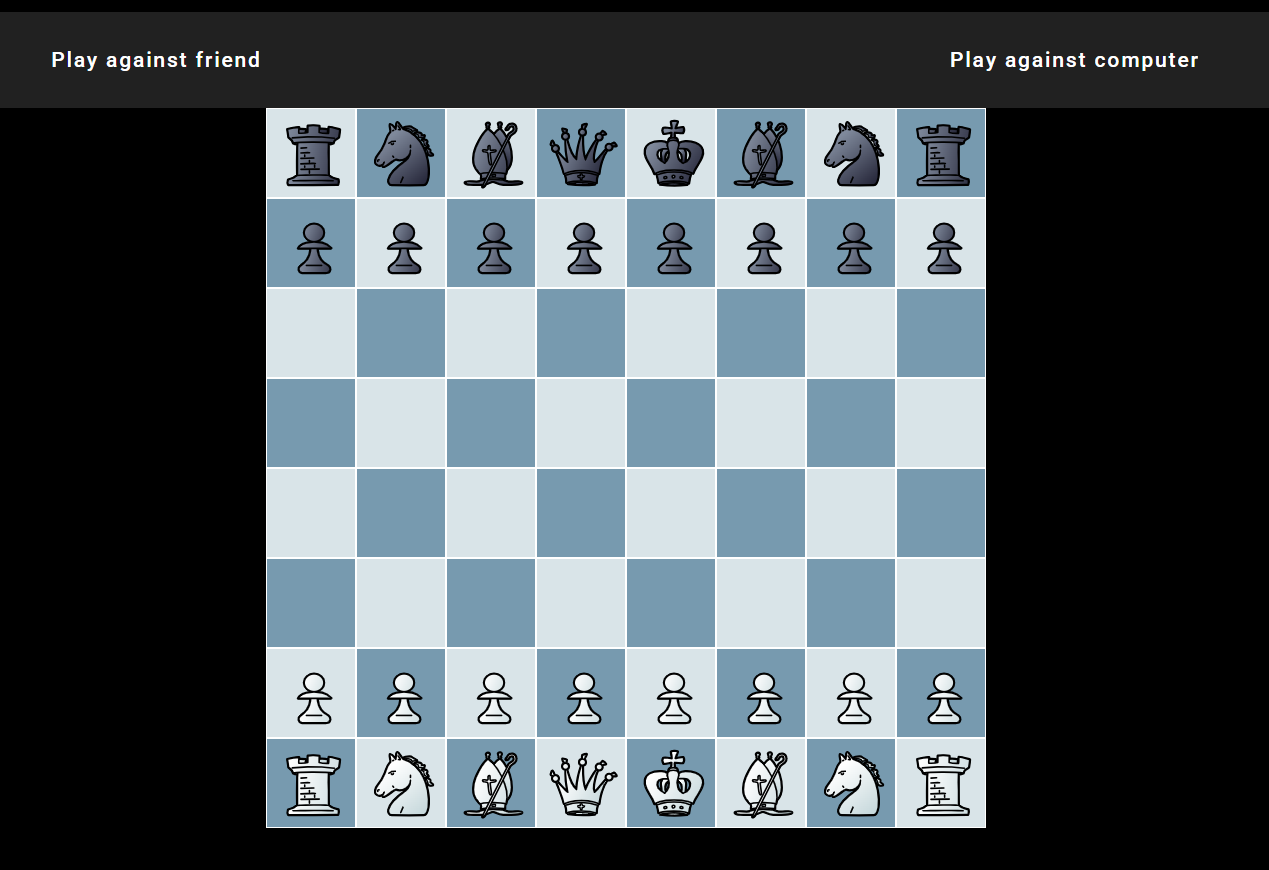
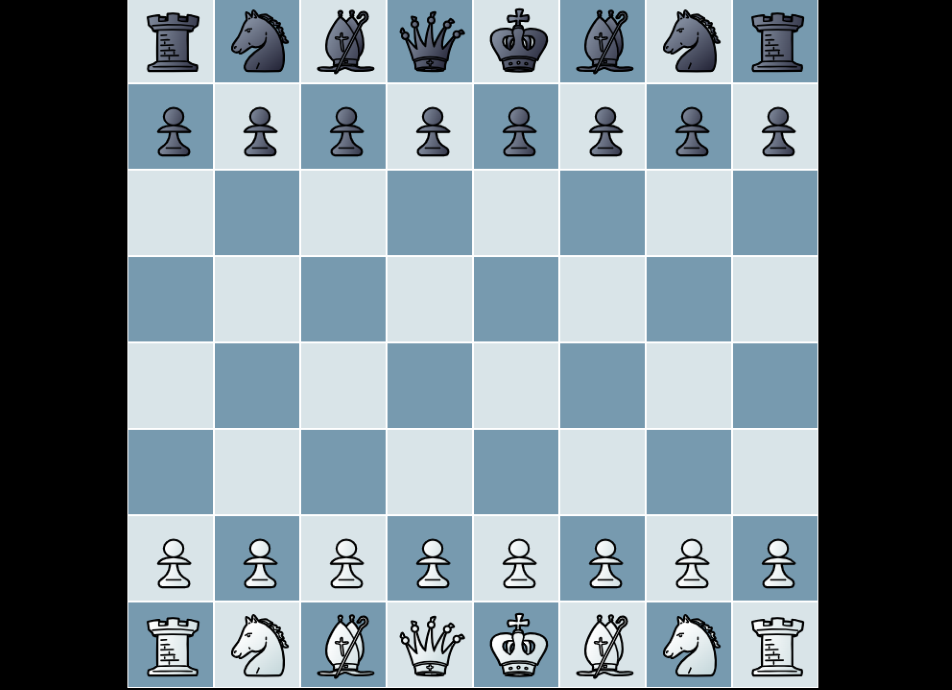
Project Section

diff --git a/src/constants/index.js b/src/constants/index.js
@@ -10,19 +10,25 @@ export const myProjects = [
       "Authentication-ready (Clerk integration)",
       "Fast, responsive, and mobile-friendly UI",
     ],
-    href: "",
+    href: "https://quickcart.greatstack.in/",
+    source: "https://github.com/BradleyXiX/eCommerce-website",
     logo: "",
     image: "/assets/projects/E-commerce 1.png",
     tags: [
       {
         id: 1,
-        name: "React",
-        path: "/assets/logos/react.svg",
+        name: "Next JS",
+        path: "/assets/logos/nextjs-icon.svg",
       },
       {
         id: 2,
         name: "TailwindCSS",
         path: "/assets/logos/tailwindcss.svg",
+      },
+      {
+        id: 3,
+        name: "JavaScript",
+        path: "/assets/logos/javascript.svg",
       },
     ],
   },
@@ -37,14 +43,15 @@ export const myProjects = [
       "Admin dashboard for managing shows and bookings",
       "Responsive UI built with React, Tailwind CSS, and Vite",
     ],
-    href: "",
+    href: "https://quickshow.vercel.app",
+    source: "https://github.com/BradleyXiX/Showtime",
     logo: "",
     image: "/assets/projects/Showtime.png",
     tags: [
       {
         id: 1,
-        name: "Auth0",
-        path: "/assets/logos/auth0.svg",
+        name: "MongoDB",
+        path: "/assets/logos/mongodb-icon.svg",
       },
       {
         id: 2,
@@ -53,13 +60,18 @@ export const myProjects = [
       },
       {
         id: 3,
-        name: "SQLite",
-        path: "/assets/logos/sqlite.svg",
+        name: "Express",
+        path: "/assets/logos/express-js-icon.svg",
       },
       {
         id: 4,
         name: "TailwindCSS",
         path: "/assets/logos/tailwindcss.svg",
+      },
+      {
+        id: 5,
+        name: "NodeJS",
+        path: "/assets/logos/node-js-icon.svg",
       },
     ],
   },
@@ -73,37 +85,48 @@ export const myProjects = [
       "Utilizes Stockfish AI",
       "Has five levels of difficulty",
     ],
-    href: "",
+    href: "https://awsomecstutorials.github.io/chess-game/",
+    source: "https://github.com/BradleyXiX/Chess-game",
     logo: "",
     image: "/assets/projects/Chess-game.png",
     tags: [
-      
+      {
+        id: 1,
+        name: "Typescript",
+        path: "/assets/logos/typescript-programming-language-icon.svg",
+      },
     ],
   },
   {
     id: 4,
     title: "Portfolio Template",
     description:
-      "A lightweight C++ game engine designed for 2D and 3D game development.",
+      "This is my personal portfolio website, built to showcase my skills, projects, and services as a software developer.",
     subDescription: [
-      "Built a powerful rendering engine using OpenGL and C++.",
-      "Developed a physics engine with collision detection and particle effects.",
-      "Implemented a scripting system for easy game customization.",
-      "Optimized performance with multi-threading and efficient memory management.",
+      "Home Section:Brief introduction and links to social profiles.",
+      "About Section: Overview of my background and approach to software development.",
+      "Projects Section: Showcases selected projects with descriptions and links.",
+      "Services Section: Outlines the services I offer, including UI/UX design, frontend, and backend development.",
     ],
-    href: "",
+    href: "https://bradleyxix.github.io/Portfolio/",
+    source: "https://github.com/BradleyXiX/Portfolio",
     logo: "",
-    image: "/assets/projects/game-engine.jpg",
+    image: "/assets/projects/Portfolio.png",
     tags: [
       {
         id: 1,
-        name: "React",
-        path: "/assets/logos/react.svg",
+        name: "Javascript",
+        path: "/assets/logos/javscript.svg",
       },
       {
         id: 2,
-        name: "Git",
-        path: "/assets/logos/git.svg",
+        name: "CSS",
+        path: "/assets/logos/css3.svg",
+      },
+      {
+        id: 3,
+        name: "HTML",
+        path: "/assets/logos/html5.svg",
       },
     ],
   },
@@ -119,8 +142,9 @@ export const myProjects = [
       "Simple interface - Easy-to-use for all cooking skill levels",
     ],
     href: "",
+    source: "https://github.com/BradleyXiX/Taste-Bud",
     logo: "",
-    image: "/assets/projects/notes 1.png",
+    image: "/assets/projects/TasteBud.png",
     tags: [
       {
         id: 2,
@@ -134,8 +158,8 @@ export const myProjects = [
       },
       {
         id: 4,
-        name: "Vite.js",
-        path: "/assets/logos/vitejs.svg",
+        name: "DeepSeek AI",
+        path: "/assets/logos/deepseek-logo-icon.svg",
       },
     ],
   },
@@ -145,18 +169,18 @@ export const myProjects = [
 export const mySocials = [
   {
     name: "WhatsApp",
-    href: "",
+    href: "0703966756",
     icon: "/assets/socials/whatsApp.svg",
   },
   {
     name: "Linkedin",
-    href: "https://www.linkedin.com/in/ali-sanati/",
+    href: "https://www.linkedin.com/in/bradley-john-chiwo",
     icon: "/assets/socials/linkedIn.svg",
   },
   {
     name: "Instagram",
-    href: "https://www.instagram.com/ali.sanatidev/reels/",
-    icon: "/assets/socials/instagram.svg",
+    href: "https://x.com/Bradley_John11",
+    icon: "/assets/socials/x.svg",
   },
 ];
 

diff --git a/src/components/ProjectDetails.jsx b/src/components/ProjectDetails.jsx
@@ -1,0 +1,66 @@
+import { motion } from "motion/react";
+const ProjectDetails = ({
+  title,
+  description,
+  subDescription,
+  image,
+  tags,
+  href,
+  source,
+  closeModal,
+  
+}) => {
+  return (
+    <div className="fixed inset-0 z-50 flex items-center justify-center w-full h-full overflow-hidden backdrop-blur-sm">
+      <motion.div
+        className="relative max-w-2xl w-full max-h-[90vh] overflow-y-auto border shadow-sm rounded-2xl bg-gradient-to-l from-midnight to-navy border-white/10"
+        initial={{ opacity: 0, scale: 0.5 }}
+        animate={{ opacity: 1, scale: 1 }}
+      >
+        <button
+          onClick={closeModal}
+          className="absolute p-2 rounded-sm top-5 right-5 bg-midnight hover:bg-gray-500"
+        >
+          <img src="assets/close.svg" className="w-6 h-6" />
+        </button>
+        <img src={image} alt={title} className="w-full max-h-2/5 rounded-t-2xl" />
+        <div className="p-5">
+          <h5 className="mb-2 text-1xl font-bold text-white">{title}</h5>
+          <p className="mb-2 font-normal text-neutral-400">{description}</p>
+          {subDescription.map((subDesc, index) => (
+            <p className="mb-2 font-normal text-neutral-400">{subDesc}</p>
+          ))}
+          <div className="flex items-center justify-between mt-4">
+            <div className="flex gap-2">
+              {tags.map((tag) => (
+                <img
+                  key={tag.id}
+                  src={tag.path}
+                  alt={tag.name}
+                  className="rounded-lg size-10 hover-animation"
+                />
+              ))}
+            </div>
+            {source && (
+              <a
+                href={source}
+                target="_blank"
+                rel="noopener noreferrer"
+                className="inline-flex items-center gap-1 font-medium cursor-pointer hover-animation"
+              >
+                Source Code
+                <img src="assets/arrow-up.svg" className="size-3" />
+              </a>
+            )}
+            {href && (<a href={href} target="_blank" rel="noopener noreferrer" className="inline-flex items-center gap-1 font-medium cursor-pointer hover-animation">
+              View Project{}
+              <img src="assets/arrow-up.svg" className="size-3"  />
+            </a>)}
+          </div>
+        </div>
+      </motion.div>
+    </div>
+  );
+};
+
+export default ProjectDetails;

diff --git a/src/components/Project.jsx b/src/components/Project.jsx
@@ -1,0 +1,55 @@
+import React, { useState } from "react";
+import ProjectDetails from "./ProjectDetails";
+
+const Project = ({
+  title,
+  description,
+  subDescription,
+  href,
+  source,
+  image,
+  tags,
+  setPreview,
+}) => {
+  const [isHidden, setIsHidden] = useState(false);
+  return (
+    <>
+      <div
+        className="flex-wrap items-center justify-between py-10 space-y-14 sm:flex sm:space-y-0"
+        onMouseEnter={() => setPreview(image)}
+        onMouseLeave={() => setPreview(null)}
+      >
+        <div>
+          <p className="text-2xl">{title}</p>
+          <div className="flex gap-5 mt-2 text-sand">
+            {tags.map((tag) => (
+              <span key={tag.id}>{tag.name}</span>
+            ))}
+          </div>
+        </div>
+        <button
+          onClick={() => setIsHidden(true)}
+          className="flex items-center gap-1 cursor-pointer hover-animation"
+        >
+          Read More
+          <img src="assets/arrow-right.svg" className="w-5" />
+        </button>
+      </div>
+      <div className="bg-gradient-to-r from-transparent via-neutral-700 to-transparent h-[1px] w-full" />
+      {isHidden && (
+        <ProjectDetails
+          title={title}
+          description={description}
+          subDescription={subDescription}
+          image={image}
+          tags={tags}
+          href={href}
+          closeModal={() => setIsHidden(false)}
+          source={source}
+        />
+      )}
+    </>
+  );
+};
+
+export default Project;

diff --git a/src/sections/Projects.jsx b/src/sections/Projects.jsx
@@ -1,8 +1,36 @@
-
+import { useState } from "react";
+import Project from "../components/Project";
+import { myProjects } from "../constants";
+import { motion, useMotionValue, useSpring } from "motion/react";
 const Projects = () => {
+  const x = useMotionValue(0);
+  const y = useMotionValue(0);
+  const springX = useSpring(x, { damping: 10, stiffness: 50 });
+  const springY = useSpring(y, { damping: 10, stiffness: 50 });
+  const handleMouseMove = (e) => {
+    x.set(e.clientX + 20);
+    y.set(e.clientY + 20);
+  };
+  const [preview, setPreview] = useState(null);
   return (
-    <div>Projects</div>
-  )
-}
+    <section
+      onMouseMove={handleMouseMove}
+      className="relative c-space section-spacing"
+    >
+      <h2 className="text-heading">My Selected Projects</h2>
+      <div className="bg-gradient-to-r from-transparent via-neutral-700 to-transparent mt-12 h-[1px] w-full" />
+      {myProjects.map((project) => (
+        <Project key={project.id} {...project} setPreview={setPreview} />
+      ))}
+      {preview && (
+        <motion.img
+          className="fixed top-0 left-0 z-50 object-cover h-56 rounded-lg shadow-lg pointer-events-none w-80"
+          src={preview}
+          style={{ x: springX, y: springY }}
+        />
+      )}
+    </section>
+  );
+};
 
-export default Projects
+export default Projects;

diff --git a/src/index.css b/src/index.css
@@ -136,3 +136,27 @@ body {
 .field-input-focus {
   @apply focus-visible:outline-none focus-visible:ring-2 focus-visible:ring-white/20;
 }
+
+::-webkit-scrollbar{
+  /* Modern scrollbar for modal scrollable area */
+.max-h-\[90vh\]::-webkit-scrollbar {
+  width: 8px;
+  background: transparent;
+}
+
+.max-h-\[90vh\]::-webkit-scrollbar-thumb {
+  background: linear-gradient(135deg, #233554 0%, #0a192f 100%);
+  border-radius: 8px;
+}
+
+.max-h-\[90vh\]::-webkit-scrollbar-track {
+  background: transparent;
+}
+
+/* Firefox support */
+.max-h-\[90vh\] {
+  scrollbar-width: thin;
+  scrollbar-color: #233554 #0a192f;
+
+}
+}

diff --git a/src/App.jsx b/src/App.jsx
@@ -1,6 +1,7 @@
 import Navbar from './sections/navbar'
 import Hero from './sections/Hero'
 import About from './sections/About'
+import Projects from './sections/Projects'
 
 const App = () => {
   return (
@@ -8,11 +9,7 @@ const App = () => {
       <Navbar />
       <Hero />
       <About />
-      <section className='min-h-screen'></section>
-      <section className='min-h-screen'></section>
-      <section className='min-h-screen'></section>
-      <section className='min-h-screen'></section>
-      <section className='min-h-screen'></section>
+      <Projects />
     </div>
 
   )
